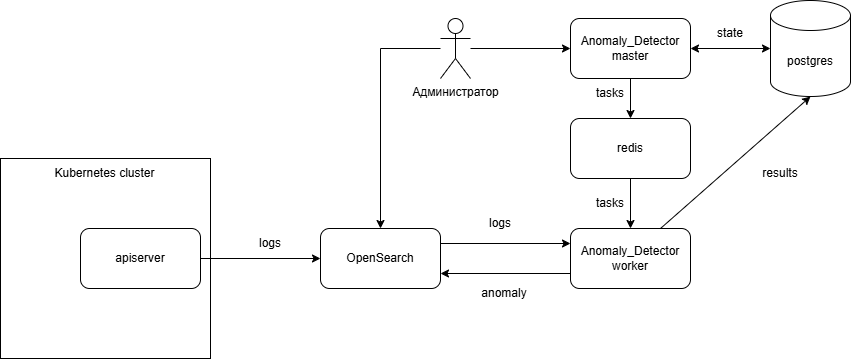
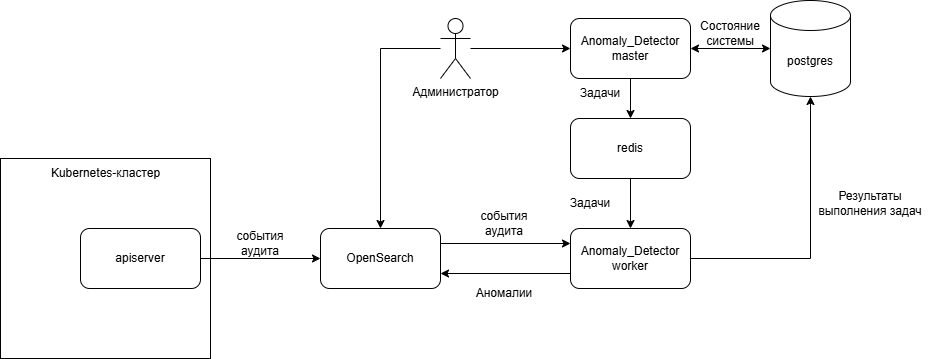
feat: финальные правки

diff --git a/docs/contents/3-1-research/01-statistical-methods.tex b/docs/contents/3-1-research/01-statistical-methods.tex
@@ -8,7 +8,7 @@
 
 \begin{itemize}
     \item \textbf{Сигнатурный анализ (signature-based detection)} — основан на сопоставлении наблюдаемых событий с заранее известными шаблонами атак. Данный подход широко используется в системах обнаружения вторжений и позволяет эффективно выявлять известные угрозы с высокой точностью. Однако он не способен обнаруживать новые или модифицированные атаки \cite{Lightweight_Detection_Networks}.
-    \item \textbf{Правил-ориентированные методы (rule-based detection)} — предполагают использование набора логических правил, описывающих допустимое и недопустимое поведение системы. В Kubernetes такие правила могут определять ограничения на использование привилегированных контейнеров, доступ к API или действия сервисных аккаунтов. Подобные механизмы в Kubernetes реализуются, например, с использованием Admission Controller \cite{KubernetesSecurityDocs}.
+    \item \textbf{Правило-ориентированные методы (rule-based detection)} — предполагают использование набора логических правил, описывающих допустимое и недопустимое поведение системы. В Kubernetes такие правила могут определять ограничения на использование привилегированных контейнеров, доступ к API или действия сервисных аккаунтов. Подобные механизмы в Kubernetes реализуются, например, с использованием Admission Controller \cite{KubernetesSecurityDocs}.
     \item \textbf{Пороговые методы (threshold-based detection)} — основаны на сравнении наблюдаемых метрик с заданными пороговыми значениями. Превышение допустимых уровней использования ресурсов (CPU, памяти) или частоты запросов может свидетельствовать о наличии аномалии. Простота реализации является преимуществом данного подхода, однако его эффективность зависит от корректности выбора порогов.
     \item \textbf{Методы белых и чёрных списков (whitelist/blacklist)} — предполагают явное задание разрешённых или запрещённых сущностей (пользователей, IP-адресов, операций). Отклонение от заданного списка интерпретируется как потенциальная аномалия. Данные методы часто применяются для контроля доступа и сетевого взаимодействия.
     \item \textbf{Методы, основанные на марковских процессах} — анализируют последовательности событий и вероятности переходов между состояниями системы.
@@ -30,9 +30,9 @@ $$
 
 Данный подход широко применяется в системах IDS (Intrusion Detection Systems). Его основным преимуществом является высокая точность обнаружения известных атак и низкая вычислительная сложность. Однако он не способен выявлять ранее неизвестные угрозы.
 
-\subsubsection{Правил-ориентированные методы}
+\subsubsection{Правило-ориентированные методы}
 
-Правил-ориентированные методы используют набор логических условий для описания допустимого поведения системы. Формально правило можно представить как предикат:
+Правило-ориентированные методы используют набор логических условий для описания допустимого поведения системы. Формально правило можно представить как предикат:
 
 $$
 R(x) = f(x_1, x_2, ..., x_n) \rightarrow \{0,1\}
@@ -42,7 +42,7 @@ $$
 
 Инструменты для реализации такой логики (например, Falco \cite{falco}) реализуют сопоставление правил с событиями контейнеров и предоставляют как стандартный набор правил, так и механизм расширения этого набора пользовательскими правилами; аналогично, policy-ориентированные решения (Open Policy Agent \cite{opa}) применяют декларативные ограничения на этапе развертывания контейнера в кластере.
 
-Преимущество правил-ориентированных методов состоит в их детерминированности и объяснимости. Однако та же детерминированность определяет и фундаментальное ограничение: правила не способно обнаружить ранее не встречавшиеся, тонкие или композиционные паттерны поведения (zero-day и эволюционирующие атаки), а также требуют постоянного ручного сопровождения - обновления и тестирования наборов правил по мере появления новых уязвимостей и изменчивости рабочих нагрузок.
+Преимущество правило-ориентированных методов состоит в их детерминированности и объяснимости. Однако та же детерминированность определяет и фундаментальное ограничение: правила не способно обнаружить ранее не встречавшиеся, тонкие или композиционные паттерны поведения (zero-day и эволюционирующие атаки), а также требуют постоянного ручного сопровождения - обновления и тестирования наборов правил по мере появления новых уязвимостей и изменчивости рабочих нагрузок.
 
 \subsubsection{Пороговые методы}
 

diff --git a/docs/contents/2-introduction.tex b/docs/contents/2-introduction.tex
@@ -6,14 +6,14 @@
 
 Одним из наиболее информативных источников данных для анализа безопасности Kubernetes-кластера являются audit-логи, формируемые компонентом API-сервера. Указанные журналы содержат сведения о запросах к объектам кластера, включая тип операции, пользователя, целевой ресурс, код ответа и иные параметры запроса. Анализ таких данных позволяет выявлять нетипичные сценарии поведения, которые могут указывать на наличие атак, нарушений политики безопасности или ошибок конфигурации \cite{KubernetesAudit}.
 
-Однако использование audit-логов затрудняется высокой интенсивностью их формирования, значительным объёмом данных и сложностью выявления скрытых зависимостей между событиями. Традиционные сигнатурные и правил-ориентированные методы обнаружения аномалий недостаточно эффективны в условиях изменяющегося характера атак и разнообразия легитимного поведения пользователей. Кроме того, audit-логи представляют собой последовательности событий, в которых важную роль играет не только факт отдельного обращения, но и порядок, контекст и временные зависимости между событиями. В связи с этим актуальным является применение методов машинного обучения и нейронных сетей, способных автоматически выявлять аномальные последовательности и скрытые закономерности в данных.
+Однако использование audit-логов затрудняется высокой интенсивностью их формирования, значительным объёмом данных и сложностью выявления скрытых зависимостей между событиями. Традиционные сигнатурные и правило-ориентированные методы обнаружения аномалий недостаточно эффективны в условиях изменяющегося характера атак и разнообразия легитимного поведения пользователей. Кроме того, audit-логи представляют собой последовательности событий, в которых важную роль играет не только факт отдельного обращения, но и порядок, контекст и временные зависимости между событиями. В связи с этим актуальным является применение методов машинного обучения и нейронных сетей, способных автоматически выявлять аномальные последовательности и скрытые закономерности в данных.
 
 Таким образом, актуальность настоящей работы определяется следующими факторами:
 
 \begin{enumerate}
     \item ростом числа атак на облачные и контейнерные инфраструктуры, включая Kubernetes-кластеры \cite{Kubernetes_Security_Report};
     \item высокой интенсивностью формирования audit-логов и сложностью их ручного анализа в распределённых системах;
-    \item недостаточной эффективностью традиционных сигнатурных и правил-ориентированных методов при выявлении новых и нетипичных сценариев атак;
+    \item недостаточной эффективностью традиционных сигнатурных и правило-ориентированных методов при выявлении новых и нетипичных сценариев атак;
     \item необходимостью разработки автоматизированных средств обнаружения аномалий, учитывающих временную структуру и последовательный характер audit-событий в Kubernetes-кластере.
 \end{enumerate}
 
@@ -30,7 +30,6 @@
     \item сформировать или получить набор данных для обучения модели нейронной сети;
     \item построить и обучить модель нейронной сети;
     \item разработать программное обеспечение на основе выбранной модели НС;
-    \item тестирование разработанного средства;
     \item обоснование экономической целесообразности разработанного средства;
     \item правовое обоснование выполнения выпускной квалификационной работы. 
 \end{enumerate}

diff --git a/docs/contents/1-abstract.tex b/docs/contents/1-abstract.tex
@@ -2,11 +2,11 @@
 
 \textbf{Ключевые слова:} ОБНАРУЖЕНИЕ АНОМАЛИЙ, KUBERNETES, АУДИТ ЛОГИ, НЕЙРОННЫЕ СЕТИ, МАШИННОЕ ОБУЧЕНИЕ, КЛАССИФИКАТОР, ИНФОРМАЦИОННАЯ БЕЗОПАСНОСТЬ, КОНТЕЙНЕРНЫЕ СРЕДЫ.
 
-Целью выпускной квалификационной работы является разработка средства обнаружения аномалий в Kubernetes-кластере на основе методов нейронных сетей, обеспечивающего высокую точность выявления аномальных событий.
+Целью выпускной квалификационной работы является повышение безопасности Kubernetes-кластера путём внедрения средства на основе нейронных сетей для обнаружения аномального поведения.
 
-В процессе выполнения работы были рассмотрены существующие подходы к обнаружению аномалий в информационных системах, а также методы анализа audit-логов Kubernetes-кластерах. Проведён обзор современных методов машинного обучения и глубокого обучения, применяемых для задач выявления отклоняющегося поведения в последовательностях событий.
+В процессе выполнения работы рассмотрены существующие подходы к обнаружению аномалий в информационных системах, а также методы анализа audit-логов Kubernetes-кластерах. Проведён обзор современных методов машинного обучения и глубокого обучения, применяемых для задач выявления отклоняющегося поведения в последовательностях событий.
 
-В ходе работы был выполнен анализ исходных данных, представляющих собой журналы аудита Kubernetes-кластера. На основе полученных данных были разработаны, обучены и исследованы модели обнаружения аномалий с использованием нейронных сетей, включая автоэнкодеры и их рекуррентные модификации. Особое внимание уделено модели на основе LSTM-автоэнкодера (LSTM-AE), способной учитывать временную структуру последовательностей.
+В ходе работы был выполнен анализ исходных данных, представляющих собой журналы аудита Kubernetes-кластера. На основе полученных данных были разработаны, обучены и исследованы модели обнаружения аномалий с использованием нейронных сетей, включая автоэнкодеры и их рекуррентные модификации. Особое внимание уделено модели автоэнкодера на основе LSTM (LSTM-AE), способной учитывать временную структуру последовательностей.
 
 Оценка качества моделей проводилась с использованием метрик классификации, при этом в качестве основной метрики была выбрана площадь под PR-кривой ($AUC_{PR}$), как наиболее информативная в условиях несбалансированных данных. В результате экспериментов установлено, что модель LSTM-AE демонстрирует наилучшие показатели качества: значение $AUC_{PR}$ составило 0,9996, precision — 0,931, recall — 1,00 и F1-мера — 0,964.
 

diff --git a/docs/contents/3-1-research/main.tex b/docs/contents/3-1-research/main.tex
@@ -11,7 +11,7 @@
 В существующих исследованиях и прикладных решениях можно выделить несколько основных подходов к обнаружению аномалий в контейнерных средах:
 
 \begin{itemize}
-    \item статистические и правил-ориентированные методы, основанные на заранее заданных сигнатурах и эвристиках;
+    \item статистические и правило-ориентированные методы, основанные на заранее заданных сигнатурах и эвристиках;
     \item методы, основанные на алгоритмах машинного обучения;
     \item методы, основанные на нейронных сетях и глубоком обучении.
 \end{itemize}
